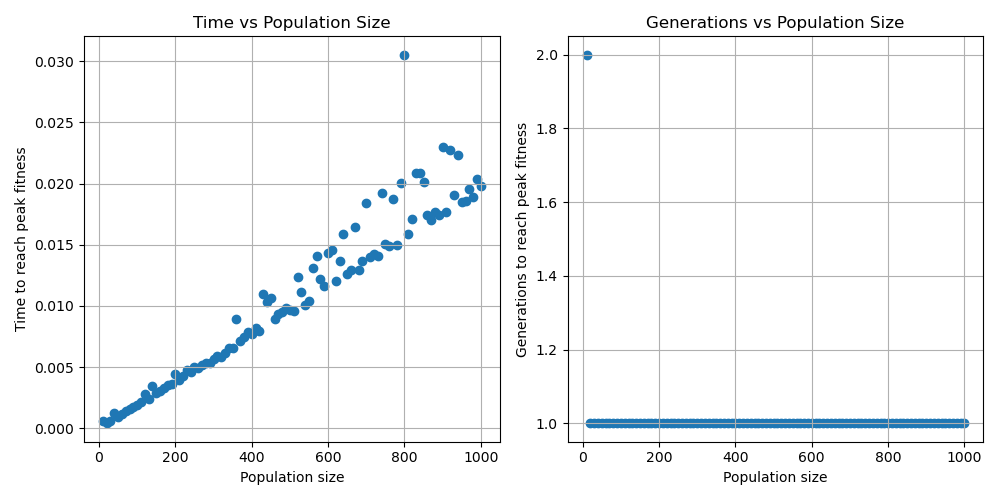
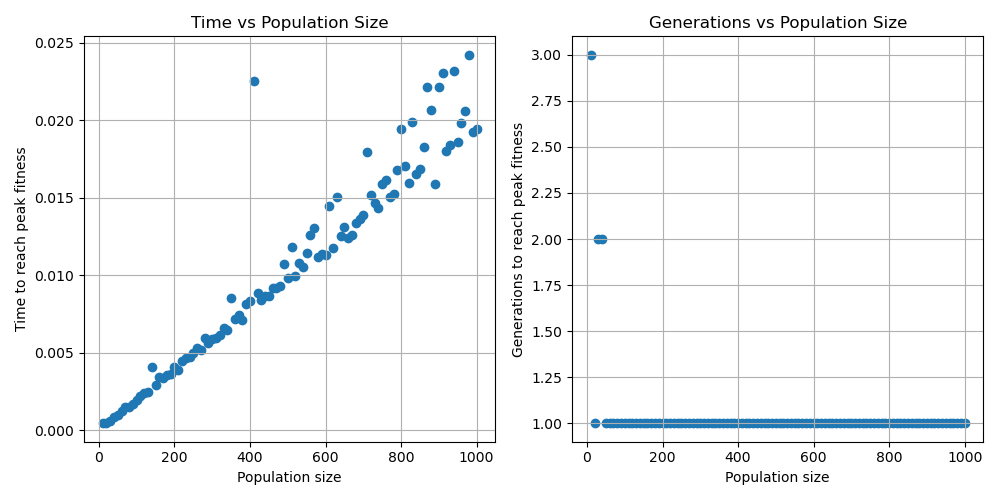
wefwefokqopfke

diff --git a/ML_Task2-main/experiment.py b/ML_Task2-main/experiment.py
@@ -18,10 +18,9 @@ def_config = neat.Config(
     config_file,
 )
 
-# Define your actual fitness function here
+
 def calculate_fitness(genome, config):
-    # Replace this with your actual fitness calculation
-    # Ensure it always returns a valid float value
+
     return random.random()
 
 def eval_genomes(genomes, config):
@@ -47,7 +46,7 @@ def run_evolution(config, fitness_threshold, max_generations=1000):
             stagnation_counter += 1
         
         if best_fitness >= fitness_threshold or stagnation_counter >= stagnation_limit:
-            return best_fitness, generation + 1  # +1 because generations are 0-indexed
+            return best_fitness, generation + 1  
 
     return best_fitness, max_generations
 
@@ -67,11 +66,11 @@ for i in range(0, i):
     config.pop_size = (10*i)+10
     y.append(config.pop_size)
     
-    # Measure time to reach peak fitness
+
     time_taken = timeit.timeit(lambda: run_evolution(config, fitness_threshold=0.95), number=1)
     results.append(time_taken)
     
-    # You might want to record the number of generations as well
+ 
     _, num_generations = run_evolution(config, fitness_threshold=0.95)
     generations.append(num_generations)
 

diff --git a/ML_Task2-main/newcar.py b/ML_Task2-main/newcar.py
@@ -349,7 +349,7 @@ if __name__ == "__main__":
     population.add_reporter(stats)
 
     # Run Simulation For A Maximum of 1000 Generations
-    population.run(run_simulation, 1)
+    population.run(run_simulation, 100)
 
 
 
